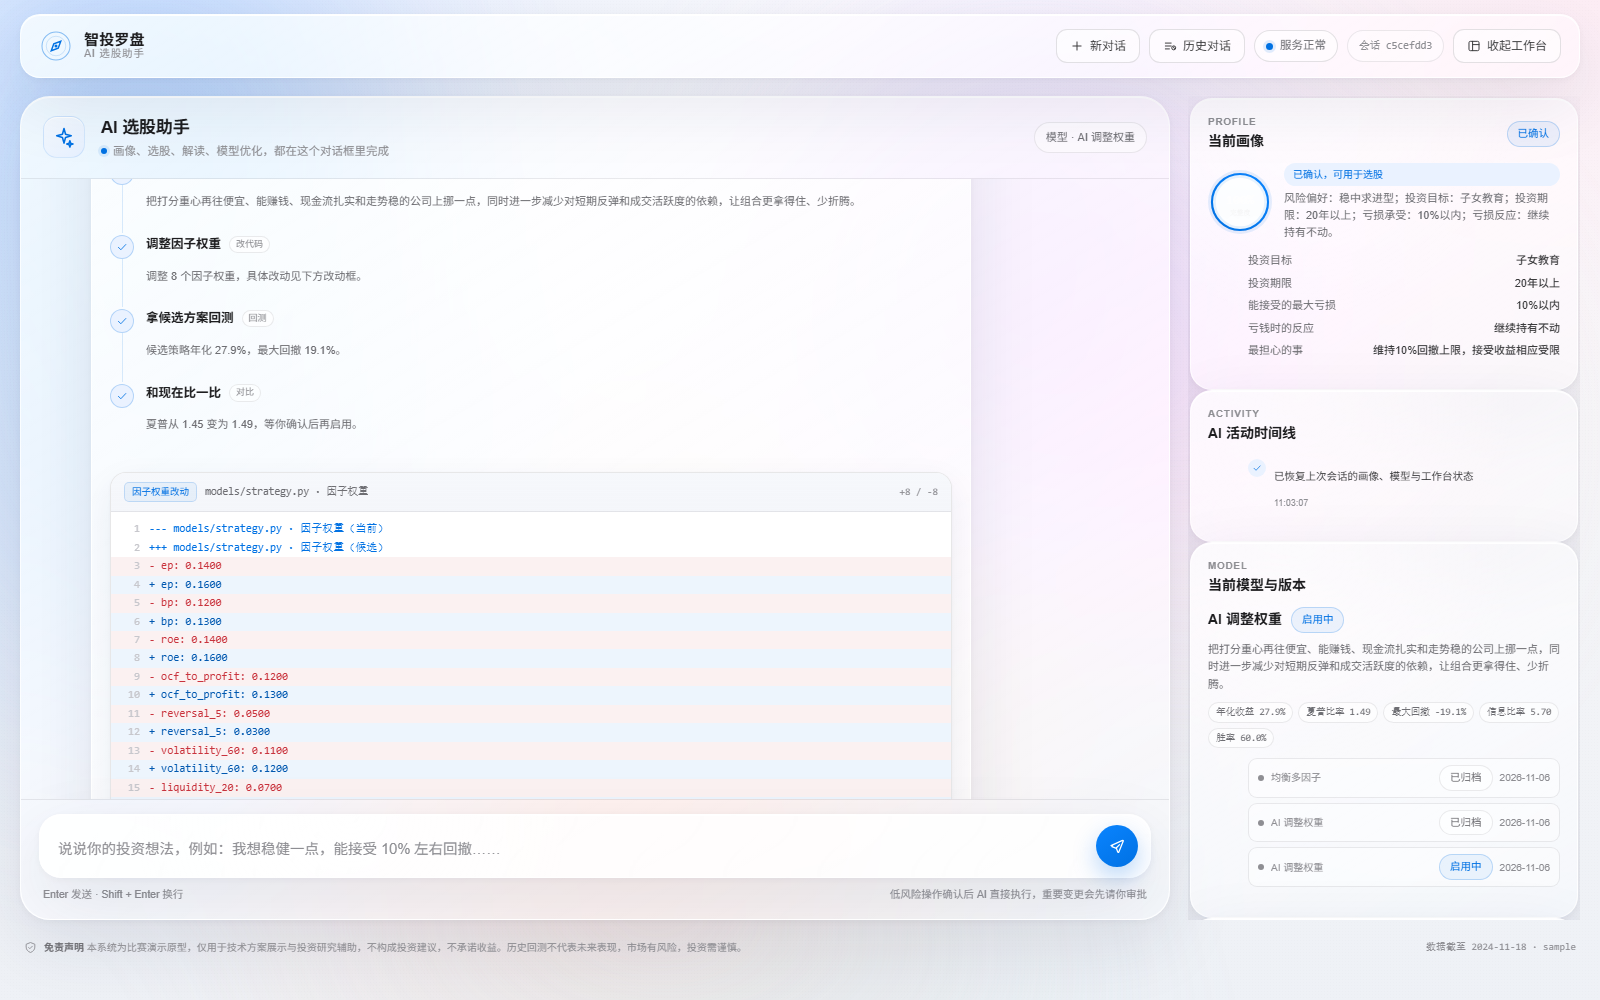
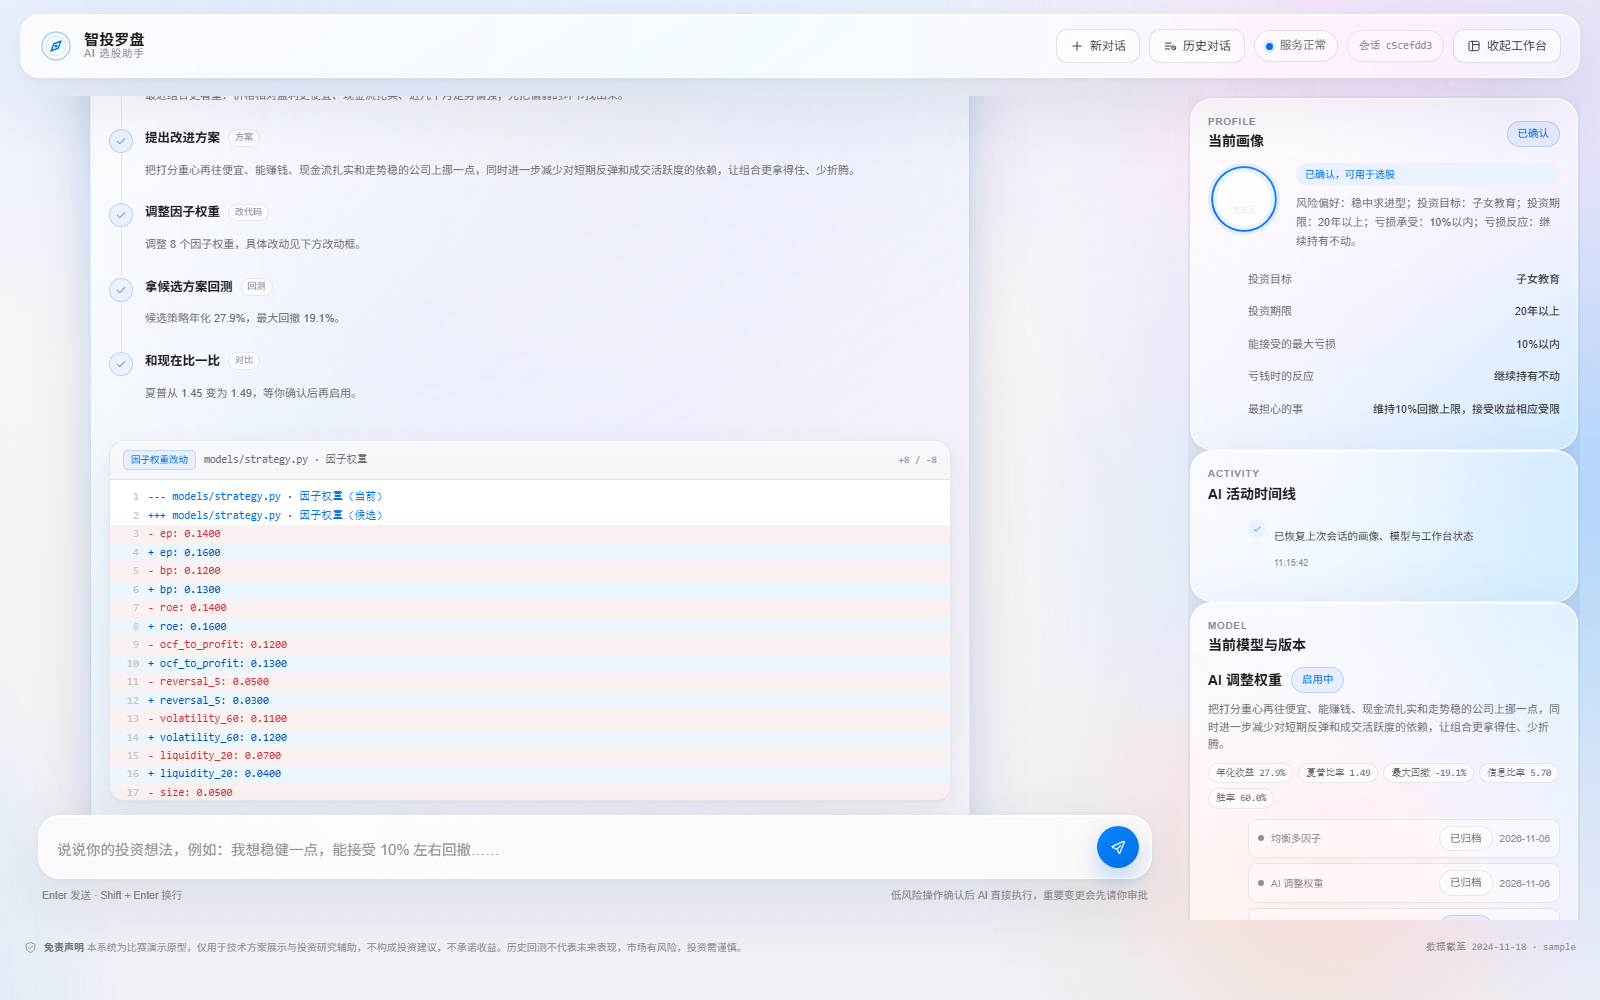
feat(ui): immersive light cards, borderless workspace, clearer accelerated fluid background

diff --git a/frontend/style.css b/frontend/style.css
@@ -794,3 +794,266 @@ body.history-open { overflow: hidden; }
 @media (prefers-reduced-motion: reduce) {
   * { animation-duration: 0.01ms !important; animation-iteration-count: 1 !important; transition-duration: 0.01ms !important; }
 }
+
+
+/* ================================================================
+ * v6：沉浸光感 + 无边框工作区 + 更清晰的流体反馈
+ * ================================================================ */
+
+/* 去除 workspace / chat-panel 的边框与玻璃外框，让内容沉浸进流体背景 */
+.workspace,
+.chat-panel {
+  border: 0;
+  background: transparent;
+  box-shadow: none;
+  -webkit-backdrop-filter: none;
+  backdrop-filter: none;
+}
+
+.chat-panel {
+  border-radius: 0;
+  overflow: visible;
+}
+
+.chat-scroll {
+  padding-top: 8px;
+}
+
+.composer {
+  padding-top: 0;
+  border-top: 0;
+  background: transparent;
+}
+
+/* AI 工作状态提示 */
+.ai-state-chip {
+  display: none;
+  align-items: center;
+  gap: 7px;
+  height: 32px;
+  padding: 0 12px;
+  border: 1px solid rgba(0, 113, 227, 0.22);
+  border-radius: 999px;
+  color: var(--blue);
+  font-size: 11px;
+  background: rgba(234, 242, 255, 0.78);
+  box-shadow: 0 0 24px rgba(90, 180, 255, 0.24);
+}
+
+.ai-state-chip i {
+  width: 7px;
+  height: 7px;
+  border-radius: 50%;
+  background: var(--blue);
+  box-shadow: 0 0 0 4px rgba(0, 113, 227, 0.14);
+  animation: aiPulse 1.1s ease-in-out infinite;
+}
+
+body.ai-working .ai-state-chip {
+  display: inline-flex;
+}
+
+/* 流体：更清晰、更强对比；AI 工作时明显加速/去模糊 */
+.fluid-canvas {
+  filter: blur(34px) saturate(185%);
+  opacity: 0.92;
+  transform: scale(1.03);
+  transition: filter 0.9s var(--ease), opacity 0.9s var(--ease), transform 1.2s var(--ease);
+}
+
+body.ai-working .fluid-canvas {
+  filter: blur(16px) saturate(240%) contrast(1.04);
+  opacity: 1;
+  transform: scale(1.08);
+}
+
+.ambient::after {
+  content: "";
+  position: absolute;
+  inset: 0;
+  background: radial-gradient(62% 46% at 50% 0%, rgba(90, 180, 255, 0.26), transparent 74%);
+  opacity: 0.45;
+  mix-blend-mode: soft-light;
+  transition: opacity 0.9s var(--ease);
+}
+
+body.ai-working .ambient::after {
+  opacity: 1;
+  animation: fluidBreathe 2.4s ease-in-out infinite;
+}
+
+.ambient-grain {
+  opacity: 0.22;
+}
+
+/* 沉浸光感卡片：环境光晕 + 发光描边 */
+.card-slot {
+  position: relative;
+  isolation: isolate;
+}
+
+.card-slot::before {
+  content: "";
+  position: absolute;
+  inset: 4px -12px -16px;
+  z-index: 0;
+  border-radius: 28px;
+  background: radial-gradient(72% 72% at 50% 0%, rgba(90, 180, 255, 0.30), rgba(196, 176, 255, 0.18) 48%, transparent 76%);
+  filter: blur(22px);
+  opacity: 0.75;
+  pointer-events: none;
+  transition: opacity 0.4s var(--ease);
+}
+
+.card {
+  z-index: 1;
+  border: 1px solid transparent;
+  background:
+    linear-gradient(150deg, rgba(255, 255, 255, 0.84), rgba(255, 255, 255, 0.52)) padding-box,
+    linear-gradient(135deg, rgba(255, 255, 255, 0.98), rgba(0, 113, 227, 0.22), rgba(110, 86, 207, 0.18), rgba(255, 255, 255, 0.94)) border-box;
+  box-shadow:
+    0 26px 64px rgba(32, 44, 78, 0.12),
+    0 0 32px rgba(0, 113, 227, 0.10),
+    inset 0 1px 0 rgba(255, 255, 255, 0.96);
+}
+
+.card-slot:has(.card-work)::before {
+  background: radial-gradient(72% 72% at 50% 0%, rgba(255, 196, 120, 0.32), rgba(196, 176, 255, 0.20) 50%, transparent 78%);
+}
+
+.card-slot:has(.card-approval)::before {
+  background: radial-gradient(72% 72% at 50% 0%, rgba(255, 196, 120, 0.38), rgba(255, 146, 180, 0.16) 48%, transparent 78%);
+}
+
+.card-slot:has(.card-selection)::before {
+  background: radial-gradient(72% 72% at 50% 0%, rgba(90, 180, 255, 0.36), rgba(110, 86, 207, 0.18) 48%, transparent 78%);
+}
+
+.card-slot:has(.card-profile)::before {
+  background: radial-gradient(72% 72% at 50% 0%, rgba(196, 176, 255, 0.28), rgba(90, 180, 255, 0.20) 48%, transparent 78%);
+}
+
+.card:hover {
+  box-shadow:
+    0 30px 70px rgba(32, 44, 78, 0.14),
+    0 0 42px rgba(0, 113, 227, 0.16),
+    inset 0 1px 0 rgba(255, 255, 255, 1);
+}
+
+.card:hover::before {
+  opacity: 1;
+}
+
+/* wb-profile 内部间距 */
+.wb-profile-top {
+  align-items: flex-start;
+  gap: 16px;
+}
+
+.wb-ring {
+  width: 72px;
+  height: 72px;
+}
+
+.wb-profile-copy {
+  gap: 8px;
+}
+
+.wb-summary {
+  line-height: 1.72;
+}
+
+.wb-items {
+  gap: 12px;
+  margin-top: 18px;
+}
+
+.wb-item {
+  padding: 2px 0;
+  line-height: 1.5;
+}
+
+@keyframes aiPulse {
+  0%, 100% { opacity: 1; transform: scale(1); }
+  50% { opacity: 0.55; transform: scale(0.82); }
+}
+
+@keyframes fluidBreathe {
+  0%, 100% { opacity: 0.85; }
+  50% { opacity: 1; }
+}
+
+
+/* 沉浸光感：随指针移动的镜面边缘光 + 内层高光 */
+.card {
+  -webkit-backdrop-filter: blur(30px) saturate(200%) brightness(1.04);
+  backdrop-filter: blur(30px) saturate(200%) brightness(1.04);
+  transition: box-shadow 0.35s var(--ease), transform 0.35s var(--ease);
+}
+
+.card::after {
+  content: "";
+  position: absolute;
+  inset: 0;
+  z-index: 3;
+  padding: 1px;
+  border-radius: inherit;
+  background: radial-gradient(220px circle at var(--glass-x, 30%) var(--glass-y, 8%),
+      rgba(255, 255, 255, 0.98) 0%,
+      rgba(10, 132, 255, 0.38) 22%,
+      rgba(110, 86, 207, 0.24) 44%,
+      rgba(255, 255, 255, 0) 68%);
+  -webkit-mask: linear-gradient(#000 0 0) content-box, linear-gradient(#000 0 0);
+  -webkit-mask-composite: xor;
+  mask: linear-gradient(#000 0 0) content-box, linear-gradient(#000 0 0);
+  mask-composite: exclude;
+  opacity: 0.9;
+  pointer-events: none;
+}
+
+.card:hover {
+  transform: translateY(-2px);
+}
+
+.card:hover::after {
+  opacity: 1;
+}
+
+/* 对话气泡也带一点环境光 */
+.msg-ai .bubble {
+  box-shadow:
+    0 18px 48px rgba(32, 44, 78, 0.10),
+    0 0 26px rgba(0, 113, 227, 0.07),
+    inset 0 1px 0 rgba(255, 255, 255, 0.95);
+}
+
+.msg-user .bubble {
+  box-shadow:
+    0 18px 42px rgba(0, 113, 227, 0.26),
+    0 0 28px rgba(90, 180, 255, 0.18);
+}
+
+
+/* 无障碍：减少透明度偏好时改为柔和实色面板 */
+@media (prefers-reduced-transparency: reduce) {
+  .card,
+  .wb-card,
+  .bubble,
+  .topbar,
+  .history-panel,
+  .composer-box {
+    background: rgba(255, 255, 255, 0.94);
+    -webkit-backdrop-filter: none;
+    backdrop-filter: none;
+    border-color: rgba(60, 60, 67, 0.14);
+  }
+
+  .card::before,
+  .card::after,
+  .wb-card::before,
+  .bubble::before,
+  .composer-box::before,
+  .card-slot::before {
+    display: none;
+  }
+}

diff --git a/frontend/index.html b/frontend/index.html
@@ -6,7 +6,7 @@
   <meta name="theme-color" content="#0B1220">
   <meta name="description" content="智投罗盘 · AI 选股助手：在一个对话框里完成投资画像、因子选股、结果解读与模型优化。">
   <title>智投罗盘 · AI 选股助手</title>
-  <link rel="stylesheet" href="style.css?v=5">
+  <link rel="stylesheet" href="style.css?v=6">
 </head>
 <body>
   <!-- 内联图标库：无字体、无 CDN、无第三方资源 -->
@@ -55,6 +55,7 @@
       <button class="topbar-btn" id="history-btn" type="button" title="历史对话归档">
         <svg class="icon"><use href="#i-history"></use></svg><span>历史对话</span>
       </button>
+      <span class="ai-state-chip" id="ai-state-chip"><i></i><span>AI 正在工作 · 流体加速</span></span>
       <div class="health-pill" id="health-pill" title="后端与数据服务状态">
         <span class="health-dot is-loading" id="health-dot"></span>
         <span id="health-text">连接中</span>
@@ -69,18 +70,6 @@
 
   <main class="workspace" id="workspace">
     <section class="chat-panel" aria-label="AI 对话">
-      <header class="chat-head">
-        <span class="agent-avatar" aria-hidden="true">
-          <svg class="icon"><use href="#i-spark"></use></svg>
-          <i class="avatar-ping"></i>
-        </span>
-        <div class="agent-copy">
-          <h1>AI 选股助手</h1>
-          <p><i class="live-dot"></i>画像、选股、解读、模型优化，都在这个对话框里完成</p>
-        </div>
-        <span class="model-chip" id="chat-model-chip">AI · —</span>
-      </header>
-
       <div class="chat-scroll" id="chat-scroll">
         <div class="chat-stream" id="chat-stream" aria-live="polite" aria-relevant="additions">
           <div class="chat-loading"><span class="spinner"></span>正在连接 AI 助手…</div>
@@ -157,8 +146,8 @@
     <span class="footer-meta" id="footer-meta">数据加载中…</span>
   </footer>
 
-  <script src="fluid.js?v=5"></script>
-  <script src="charts.js?v=5"></script>
-  <script src="app.js?v=5"></script>
+  <script src="fluid.js?v=6"></script>
+  <script src="charts.js?v=6"></script>
+  <script src="app.js?v=6"></script>
 </body>
 </html>

diff --git a/frontend/fluid.js b/frontend/fluid.js
@@ -36,8 +36,8 @@
         x: Math.random(),
         y: Math.random(),
         radius: 0.28 + Math.random() * 0.24,
-        vx: (Math.random() - 0.5) * 0.00045,
-        vy: (Math.random() - 0.5) * 0.00045,
+        vx: (Math.random() - 0.5) * 0.0018,
+        vy: (Math.random() - 0.5) * 0.0018,
         phase: Math.random() * Math.PI * 2,
         palette: palette
       });
@@ -85,7 +85,7 @@
       }
       var cx = px * width;
       var cy = py * height;
-      var radius = blob.radius * minSide * (1 + Math.sin(blob.phase * 0.7) * 0.06);
+      var radius = blob.radius * minSide * (1 + Math.sin(blob.phase * 0.7) * 0.10);
       var gradient = ctx.createRadialGradient(cx, cy, 0, cx, cy, radius);
       var rgb = blob.palette.color;
       gradient.addColorStop(0, 'rgba(' + rgb[0] + ',' + rgb[1] + ',' + rgb[2] + ',' + blob.palette.alpha * (0.82 + energy * 0.08) + ')');
@@ -109,7 +109,7 @@
   }
 
   function readWorkingState() {
-    targetEnergy = document.body.classList.contains('ai-working') ? 3.1 : 1;
+    targetEnergy = document.body.classList.contains('ai-working') ? 3.6 : 1;
   }
 
   function start() {

diff --git a/README.md b/README.md
@@ -1,4 +1,4 @@
-# 智投罗盘 · AI 选股助手（MVP）
+# 智投罗盘 · AI 选股助手（MVP）
 
 一个「只用一个聊天框」完成全部操作的 A 股 AI 选股应用：AI 先像朋友一样了解你，再自动完成选股、解读，并能自己分析模型、生成/修改选股代码、回测对比，最后等你点头后才启用。
 
@@ -81,8 +81,9 @@ AI 工作时，背景流体自动加速、提高饱和度：
 ## 视觉与交互设计
 
 - **浅色 Apple 风格**：Apple 系统字体栈、浅灰白背景、大圆角、留白与克制的蓝色主色；页面内不使用深色背景。
-- **动态流体背景**：Canvas 2D 柔和色团持续流动；AI 处理请求时（`body.ai-working`）速度倍率从 1 平滑升到约 3，回复结束后回落。
-- **毛玻璃卡片**：卡片、顶栏、聊天气泡、输入区使用 `backdrop-filter: blur(...) saturate(...)` 与半透明白色渐变，和背后的流体、其他元素产生透光/模糊的光学关系；指针经过卡片会移动高光位置。
+- **动态流体背景**：Canvas 2D 柔和色团持续流动；AI 处理请求时（`body.ai-working`）速度倍率从 1 平滑升到约 3.6，模糊度降低、饱和度升高，顶栏同时出现「AI 正在工作 · 流体加速」提示，回复结束后回落。
+- **沉浸光感卡片**：对话卡片使用真实 `backdrop-filter` 磨砂（blur + saturation + brightness）、层次渐变描边、环境光晕与内层高光；指针经过时，镜面边缘光（Fresnel rim）与内部高光跟随指针移动（由 `--glass-x/--glass-y` 驱动），并根据卡片类型（选股/优化/审批/画像）呈现蓝、紫、暖橙等不同氛围光。
+- **光学与无障碍细节**：内容自适应透明度（浅色背景更通透）、柔和彩色投影；支持 `prefers-reduced-motion`（关闭动画）与 `prefers-reduced-transparency`（退化为实色磨砂面板）。
 - **绿色使用纪律**：绿色仅用于负向数据（股票/组合下跌、最大回撤等），上涨与正收益使用红系；成功、进行中、普通状态全部使用蓝色或中性灰，避免把绿色当装饰色。
 - **新对话与历史归档**：顶栏「新对话」创建会话；「历史对话」打开归档，可切换回任意历史会话并恢复聊天卡片与代码框。
 
@@ -116,7 +117,7 @@ backend/
   engine/            A 股 10 因子、筛选/组合、T+1/涨跌停/停牌/成本回测
   models/            内置模型类型、AI 代码安全校验与编译、提案流水线
 frontend/
-  index.html / app.js / style.css / charts.js
+  index.html / app.js / style.css / charts.js / fluid.js
 tests/               95+ 个 unittest（引擎/模型/Agent/存储/对话服务/HTTP）
 scripts/             构建缓存、启动、重置、全量测试、E2E 冒烟
 docs/                接口契约、运行手册、设计摘要、界面截图
@@ -141,3 +142,9 @@ $node --check frontend/app.js; $node --check frontend/charts.js
 - 高净值客户 KYC 与沟通技巧：[《高净值客户深度 KYC 及沟通技巧》](https://m.jiangshi99.com/course/content/185767.html)
 - 证券投资顾问业务与适当性管理要求：[证券投资顾问业务暂行规定](https://www.10jqka.com.cn)
 - 财富管理路演支持话术参考：[FinClaw bank wealth-management skill](https://github.com/aifinlab/finclaw/blob/main/skills/bank-t191-wealth-management-roadshow-support-assistant/SKILL.md)
+
+## 视觉设计参考
+
+- 沉浸光感材质（华为开发者问答）：[沉浸光感材质在卡片中如何使用](https://developer.huawei.com/consumer/cn/forum/topic/0207211216415627050?fid=0109140870620153026)、[接入沉浸光感后如何增强效果](https://developer.huawei.com/consumer/cn/forum/topic/0202219337594255098?fid=0101587865002800104)
+- Apple Liquid Glass 设计语言：[Apple 新软件设计新闻稿](https://www.apple.com.cn/newsroom/2025/06/apple-introduces-a-delightful-and-elegant-new-software-design/)、[WWDC25 Liquid Glass 介绍](https://developer.apple.com/la/videos/play/wwdc2025/219/)
+- 玻璃材质的光学实现参考（磨砂、镜面高光锐度、内容自适应强度、无障碍回退）：[liquid_glass_widgets 文档](https://pub.dev/packages/liquid_glass_widgets/versions/0.17.1)
